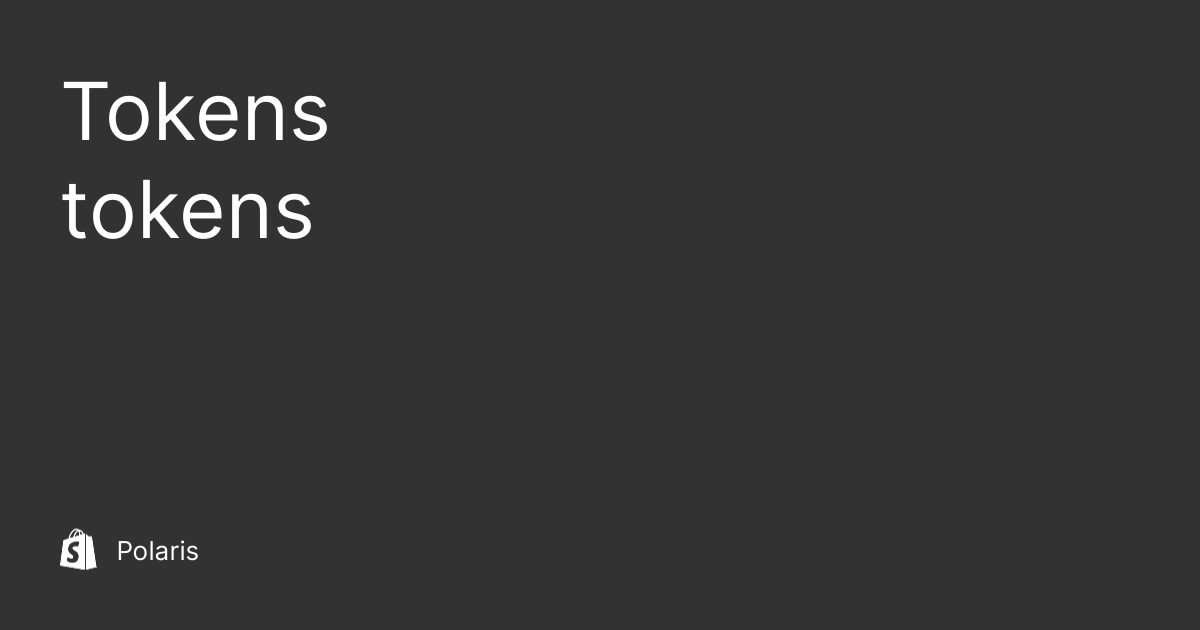
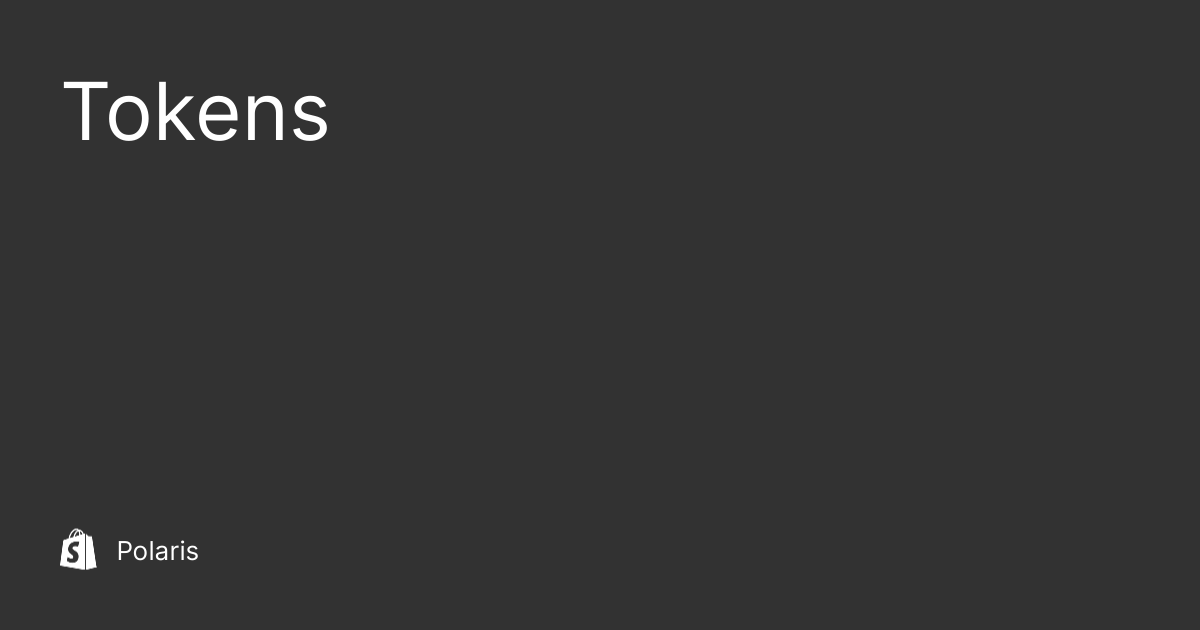
Update images

Changed region(s): [[0.0308, 0.3016, 0.2775, 0.3921]]

diff --git a/polaris.shopify.com/src/scripts/og-images/index.js b/polaris.shopify.com/src/scripts/og-images/index.js
@@ -130,7 +130,7 @@ function getTitleForUrl(url) {
 
   title = slug.replace(/-/g, " ");
 
-  if (url.startsWith("/tokens")) {
+  if (url.startsWith("/tokens/")) {
     title = `${title} tokens`;
   }
 
